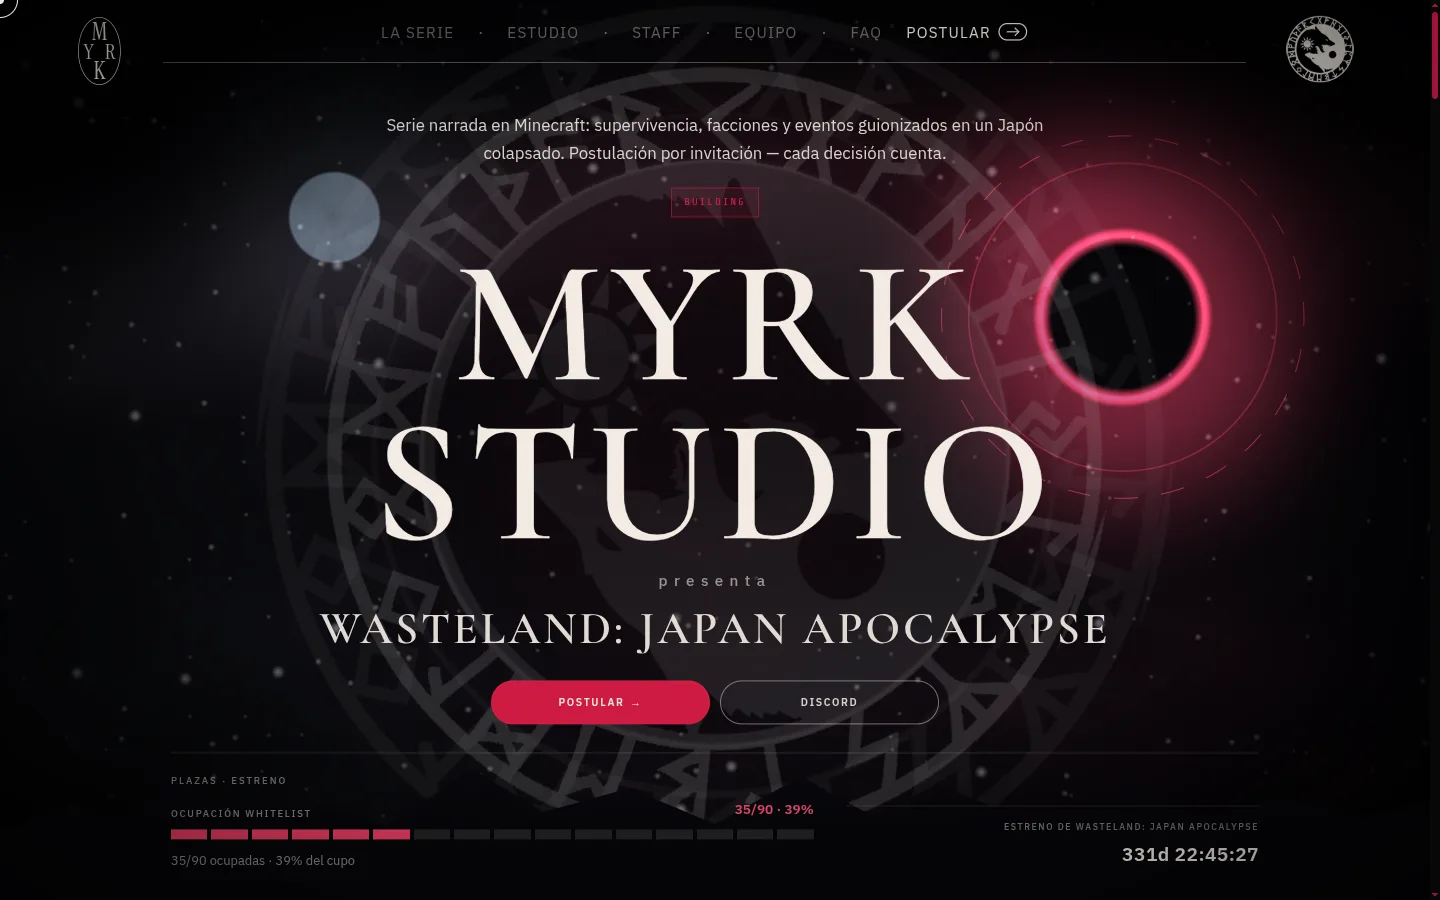
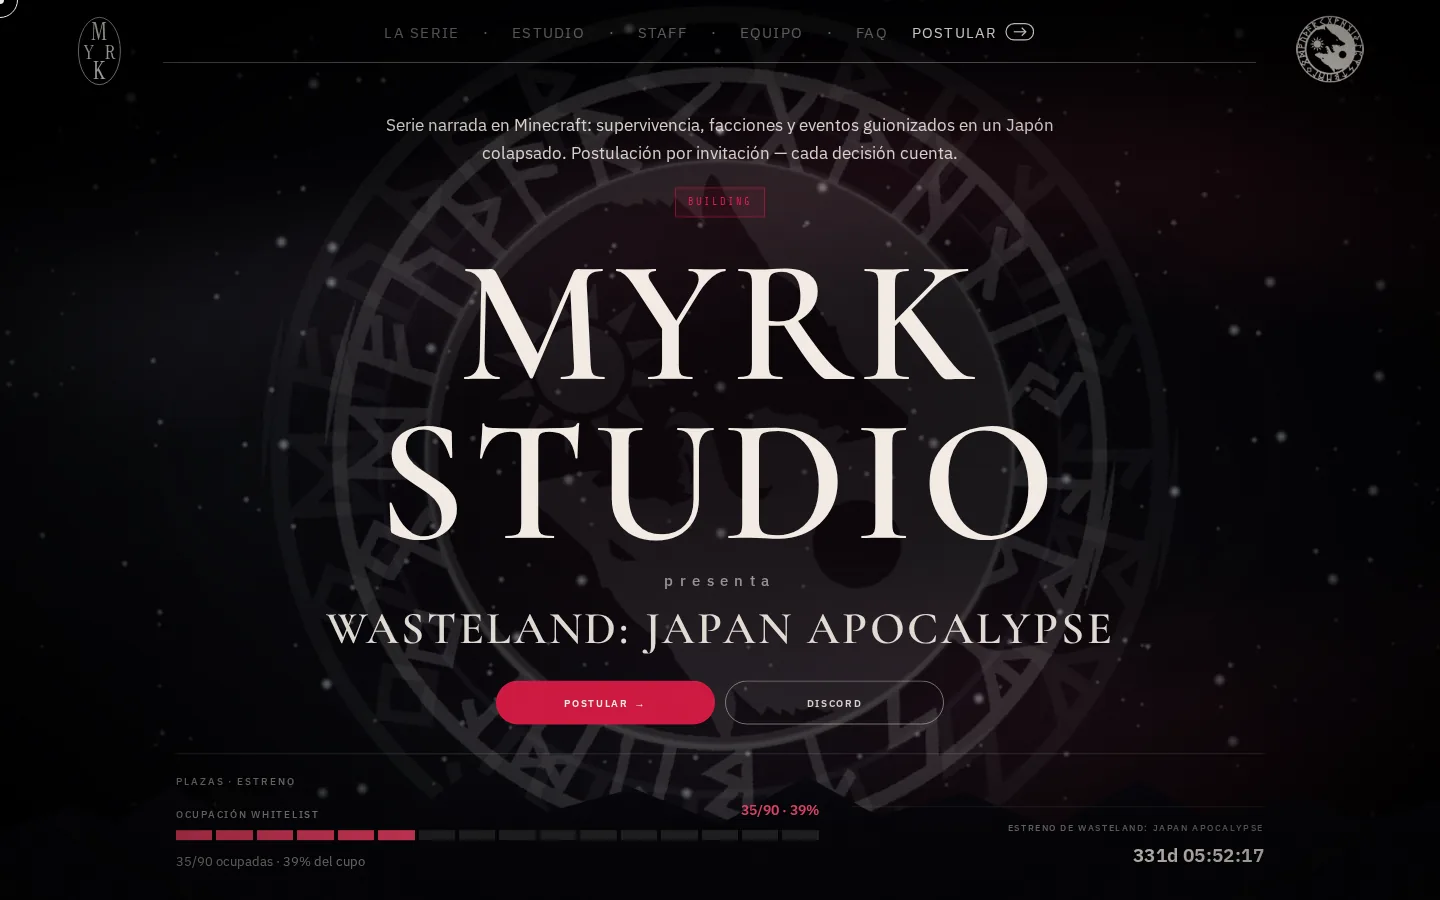
chore(assets): refresh the Myrk Studio cover from the shipped rework
The site moved to its sky-only hero (d8e0eff in that repo) and the portfolio
card was still showing the previous capture with the black hole. New shot of the
served dist/ at 1440x900, same framing the card crops with object-cover, waiting
for the entrance animation to settle: 57,468 -> 51,618 bytes of WebP q82 at the
same filename, so PROJECT_OVERRIDES needed no edit.

Worth knowing: Next caches optimized variants per URL+width+quality without
looking at the file content, and in dev that cache is .next/dev/cache/images —
swapping an image under the same name keeps serving the old bitmap until it is
cleared.

diff --git a/odd/tasks/prod-polish.md b/odd/tasks/prod-polish.md
@@ -284,3 +284,22 @@ aplicaba en contextos táctiles: movido a la capa de componentes.
 `es.hero.title` crudo (con `\n`) contra HTML con spans. Se endureció: `plainText()` + `sentence()`
 aplanan marcado y espacios de ambos lados, así un cambio de copia o de marcado no puede romper la
 spec. Vuelve a 7 OK.
+
+**L17 — foto del home de Myrk Studio (pedido del usuario).**
+> tenes que actualizar la foto del home de myrkstudio
+
+El sitio se había rediseñado (`d8e0eff feat(editorial): the shipped rework — sky-only hero`), pero el
+asset del portfolio seguía siendo la captura vieja (con el agujero negro y su anillo rosa). Se generó
+una captura nueva del build servido: `dist/` de `/mnt/JuegosHDD/Proyectos/MyrkStudio` en
+`http://127.0.0.1:4173`, chromium headless, 1440x900 (misma relación que el asset anterior, que la
+tarjeta recorta a 16/9 con `object-cover`), 4.5s de espera para que asiente la animación, sin errores
+de consola. Convertida a WebP q82 método 6: **57 468 → 51 618 bytes** con el mismo nombre de archivo,
+así que no hubo que tocar `PROJECT_OVERRIDES`.
+
+**Trampa que costó 20 minutos:** con el archivo reemplazado, la web seguía mostrando la foto vieja.
+No era el navegador ni mi `curl` (que pedía JPEG y recibía la nueva): Next cachea las variantes
+optimizadas por URL+ancho+calidad **sin mirar el contenido del archivo**, y en dev esa caché vive en
+`.next/dev/cache/images` — borré primero `.next/cache/images`, que es la ruta de producción, y no
+pasó nada. Limpiando la ruta correcta la variante AVIF pasa de 4 980 a 5 136 bytes y muestra el hero
+actual. Regla para el futuro: reemplazar una imagen conservando el nombre exige limpiar
+`.next/dev/cache/images` (o cambiar el nombre del archivo) antes de verificar.
